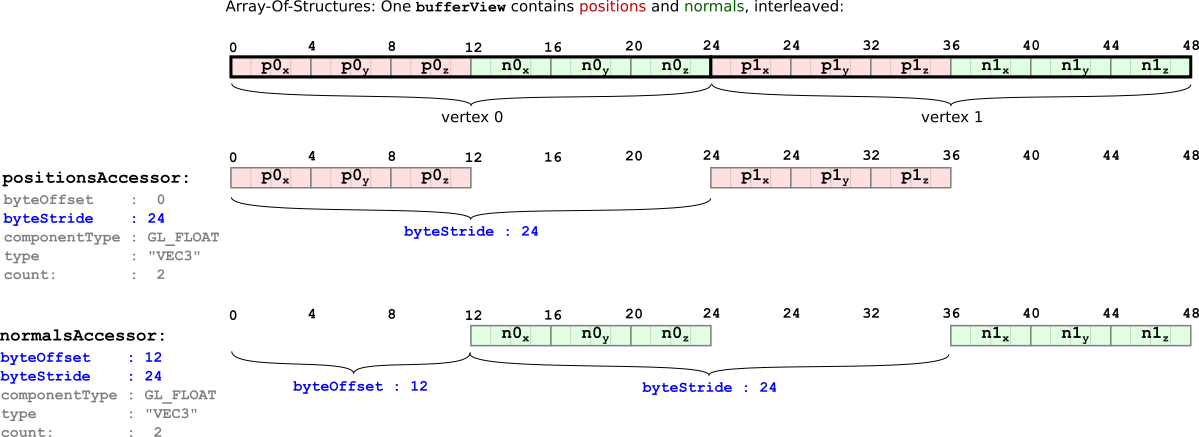
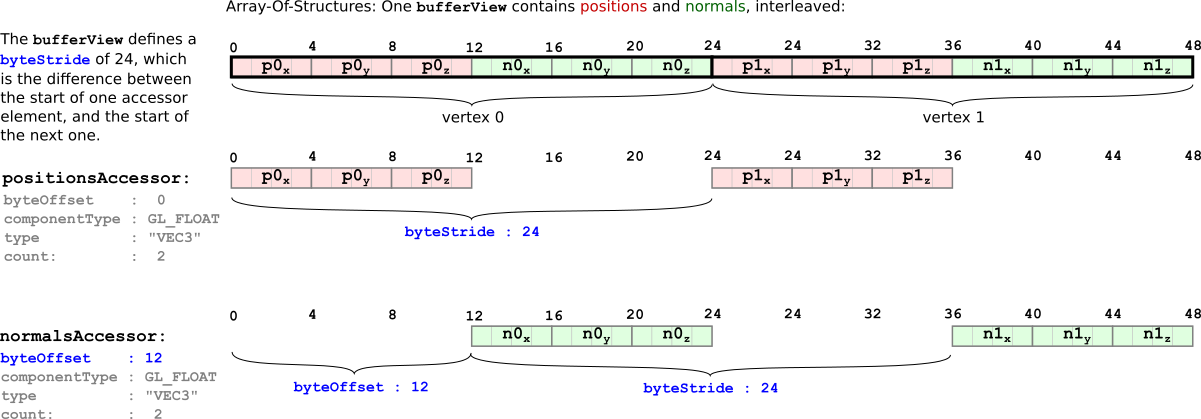
Updated section about interleaved data
The byteStride was moved from the accessors
to the bufferView

diff --git a/gltfTutorial/gltfTutorial_005_BuffersBufferViewsAccessors.md b/gltfTutorial/gltfTutorial_005_BuffersBufferViewsAccessors.md
@@ -126,11 +126,11 @@ Image 5c illustrates how the raw data of a `buffer` is structured using `bufferV
 
 ### Data interleaving
 
-Each accessor may also define a `byteStride` property. This property is required for data that is stored as an *Array-Of-Structures*. A single `bufferView` may, for example, contain the data for vertex positions and for vertex normals in an interleaved fashion. The `byteOffset` defines the start of the first relevant data element. The `byteStride` defines the number of bytes until the start of the next relevant data element, as shown in Image 5d.
+The data of the attributes that are stored in a single `bufferView` may be stored as an *Array-Of-Structures*. A single `bufferView` may, for example, contain the data for vertex positions and for vertex normals in an interleaved fashion. In this case, the `byteOffset` of an accessor defines the start of the first relevant data element for the respective attribute, and the `bufferView` defines an additional `byteStride` property. This is the number of bytes between the start of one element of its accessors, and the start of the next one. An example of how interleaved position- and a normal attributes are stored inside a `bufferView` is shown in Image 5d.
 
 <p align="center">
 <img src="images/aos.png" /><br>
-<a name="aos-png"></a>Image 5d: The byte offset and byte stride of an accessor.
+<a name="aos-png"></a>Image 5d: Interleaved acessors in one buffer view
 </p>
 
 
